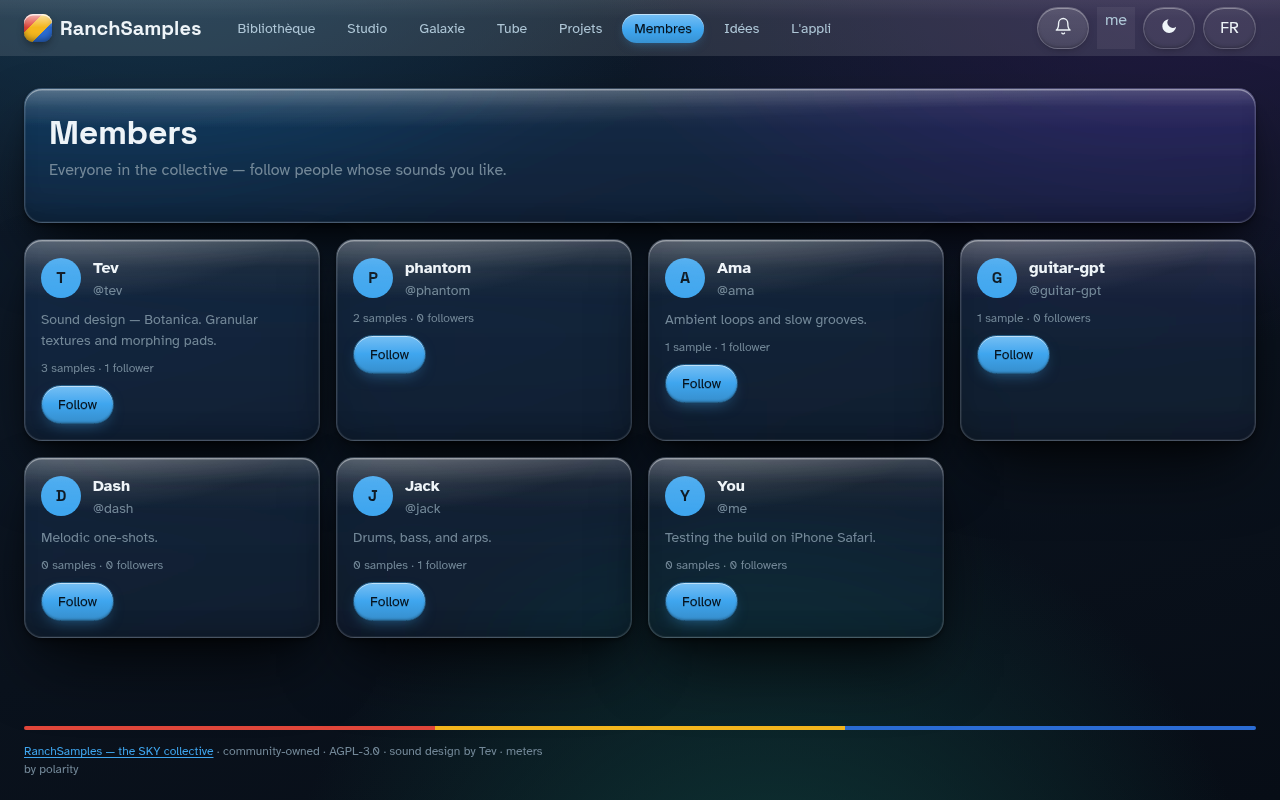
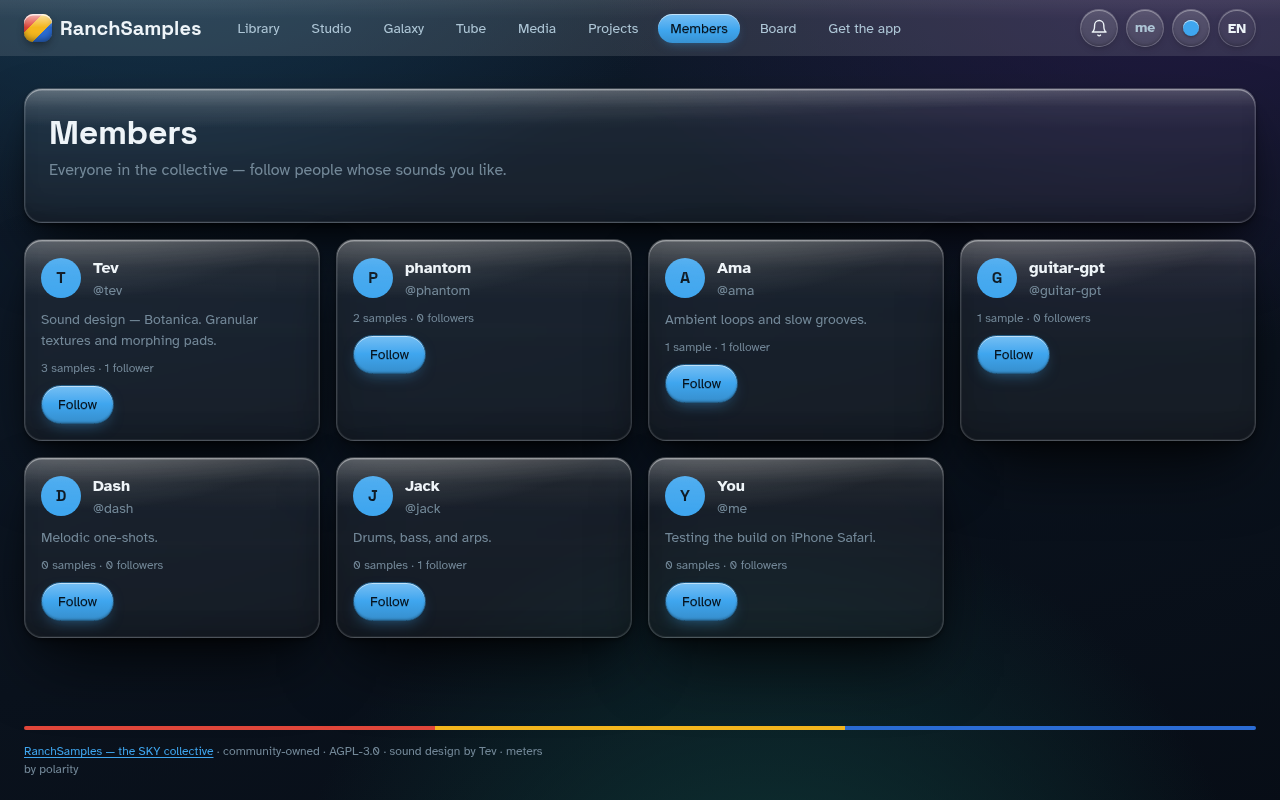
docs: refresh the screenshot gallery — English, light+dark, mobile, + the hub
Recapture every surface in English (the README is for an English audience),
light and dark, against the real library + the live media hub: library, studio,
galaxy, media, tube, members. Add a responsive row (library/studio/media on a
phone) and the new Media page. The README gallery now shows the hero studio, a
2×2 of the headline surfaces, a light/dark pair, and the mobile showcase.

Changed region(s): [[0.1875, 0.0, 0.6875, 0.0625], [0.8125, 0.0, 0.9688, 0.0625], [0.8438, 0.1562, 0.9688, 0.1875]]

diff --git a/README.md b/README.md
@@ -11,16 +11,33 @@ duplicated backend, a monolithic frontend, and a forked DSP).
 
 ## Screenshots
 
-![The studio — two native instruments running in an AudioWorklet](docs/screenshots/studio-dark.png)
+The studio — two native instruments (Botanica, PhasePlan) running in an AudioWorklet:
+
+![The studio](docs/screenshots/studio-dark.png)
 
 | | |
 |:--|:--|
 | ![Library](docs/screenshots/library-light.png) | ![Galaxy](docs/screenshots/galaxy-dark.png) |
 | **Library** — browse, search, preview, drag straight into your DAW | **Galaxy** — the library plotted by timbre (brightness × percussiveness) |
-| ![Tube](docs/screenshots/tube-light.png) | ![Members](docs/screenshots/members-light.png) |
-| **Tube** — the community video wall | **Members** — the people behind the collective |
+| ![Media hub](docs/screenshots/media-light.png) | ![Tube](docs/screenshots/tube-dark.png) |
+| **Media** — one login to the collective's self-hosted services | **Tube** — the community video wall |
 
-<sub>Every surface ships light + dark (`aero-light` / `aero-dark`); more captures in [`docs/screenshots/`](docs/screenshots/).</sub>
+**Light + dark, on every surface:**
+
+| | |
+|:--|:--|
+| ![Library, light](docs/screenshots/library-dark.png) | ![Studio, light](docs/screenshots/studio-light.png) |
+| **Library** (dark) | **Studio** (light) |
+
+**Responsive — the same app on a phone:**
+
+<p>
+  <img src="docs/screenshots/library-mobile.png" alt="Library on mobile" width="220">
+  <img src="docs/screenshots/studio-mobile.png" alt="Studio on mobile" width="220">
+  <img src="docs/screenshots/media-mobile.png" alt="Media on mobile" width="220">
+</p>
+
+<sub>Captured in English; every surface ships `aero-light` / `aero-dark` plus user-chosen palettes and a custom accent. More in [`docs/screenshots/`](docs/screenshots/).</sub>
 
 ## Surfaces
 
